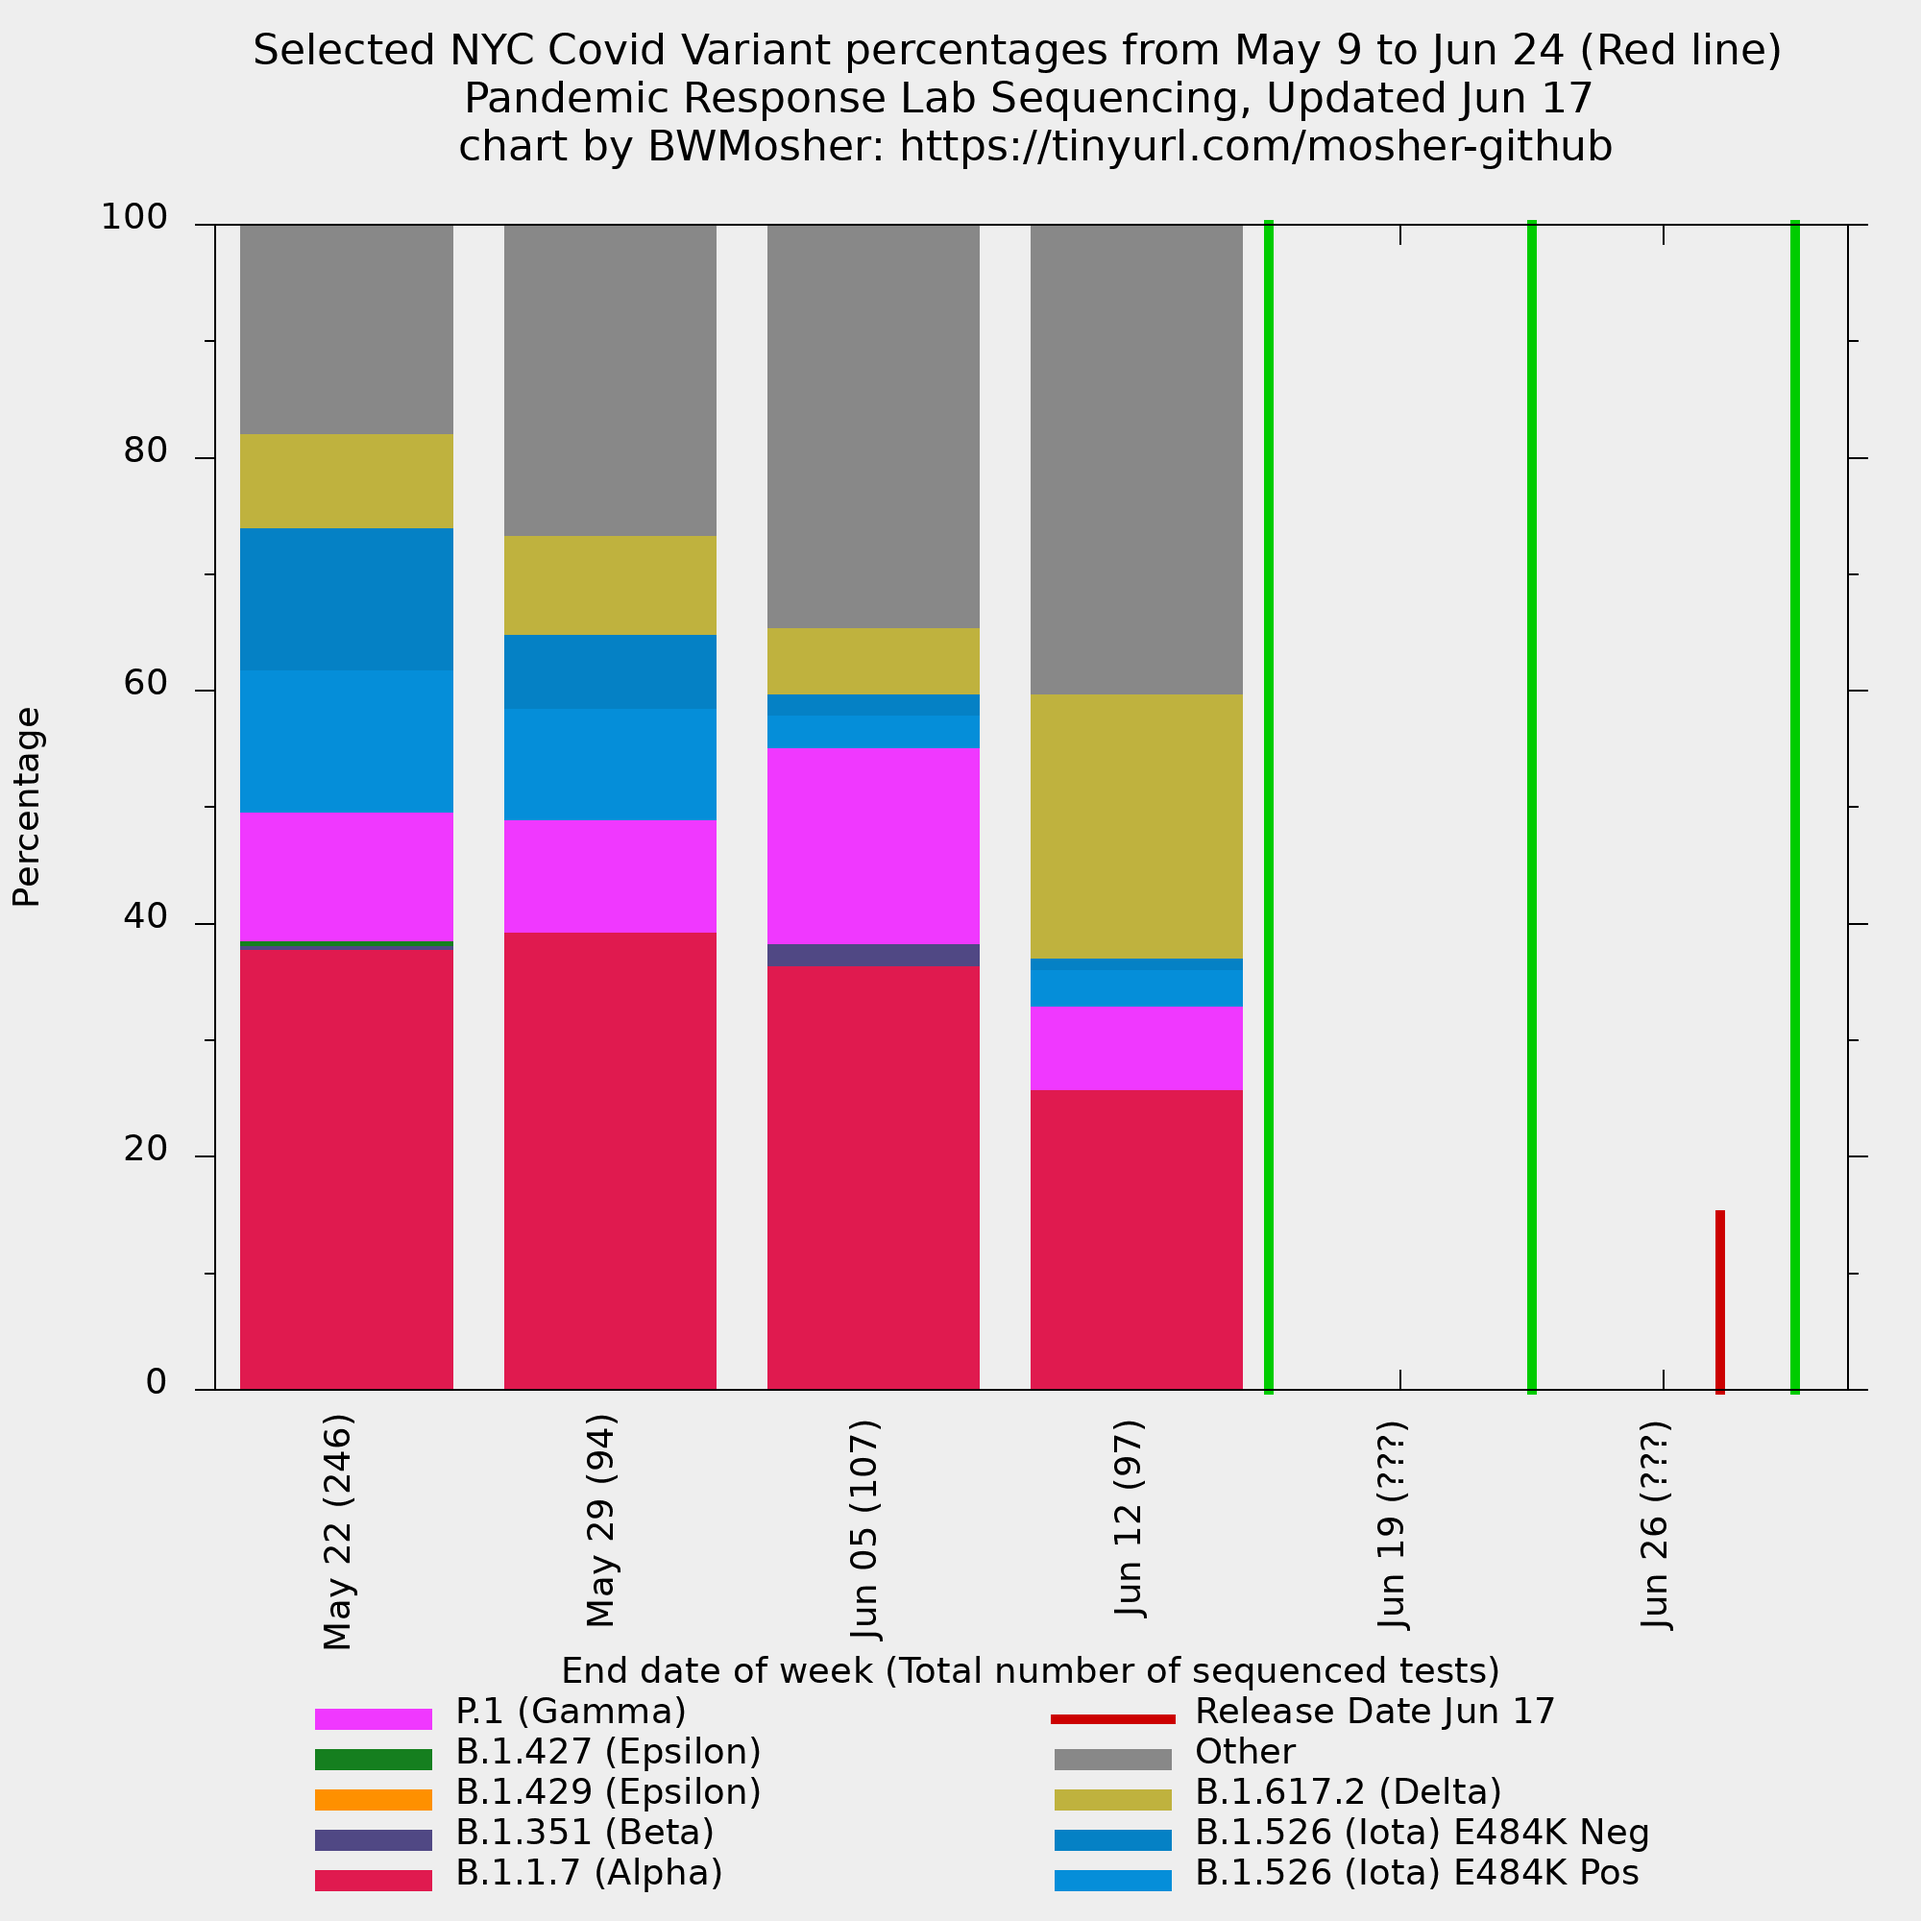
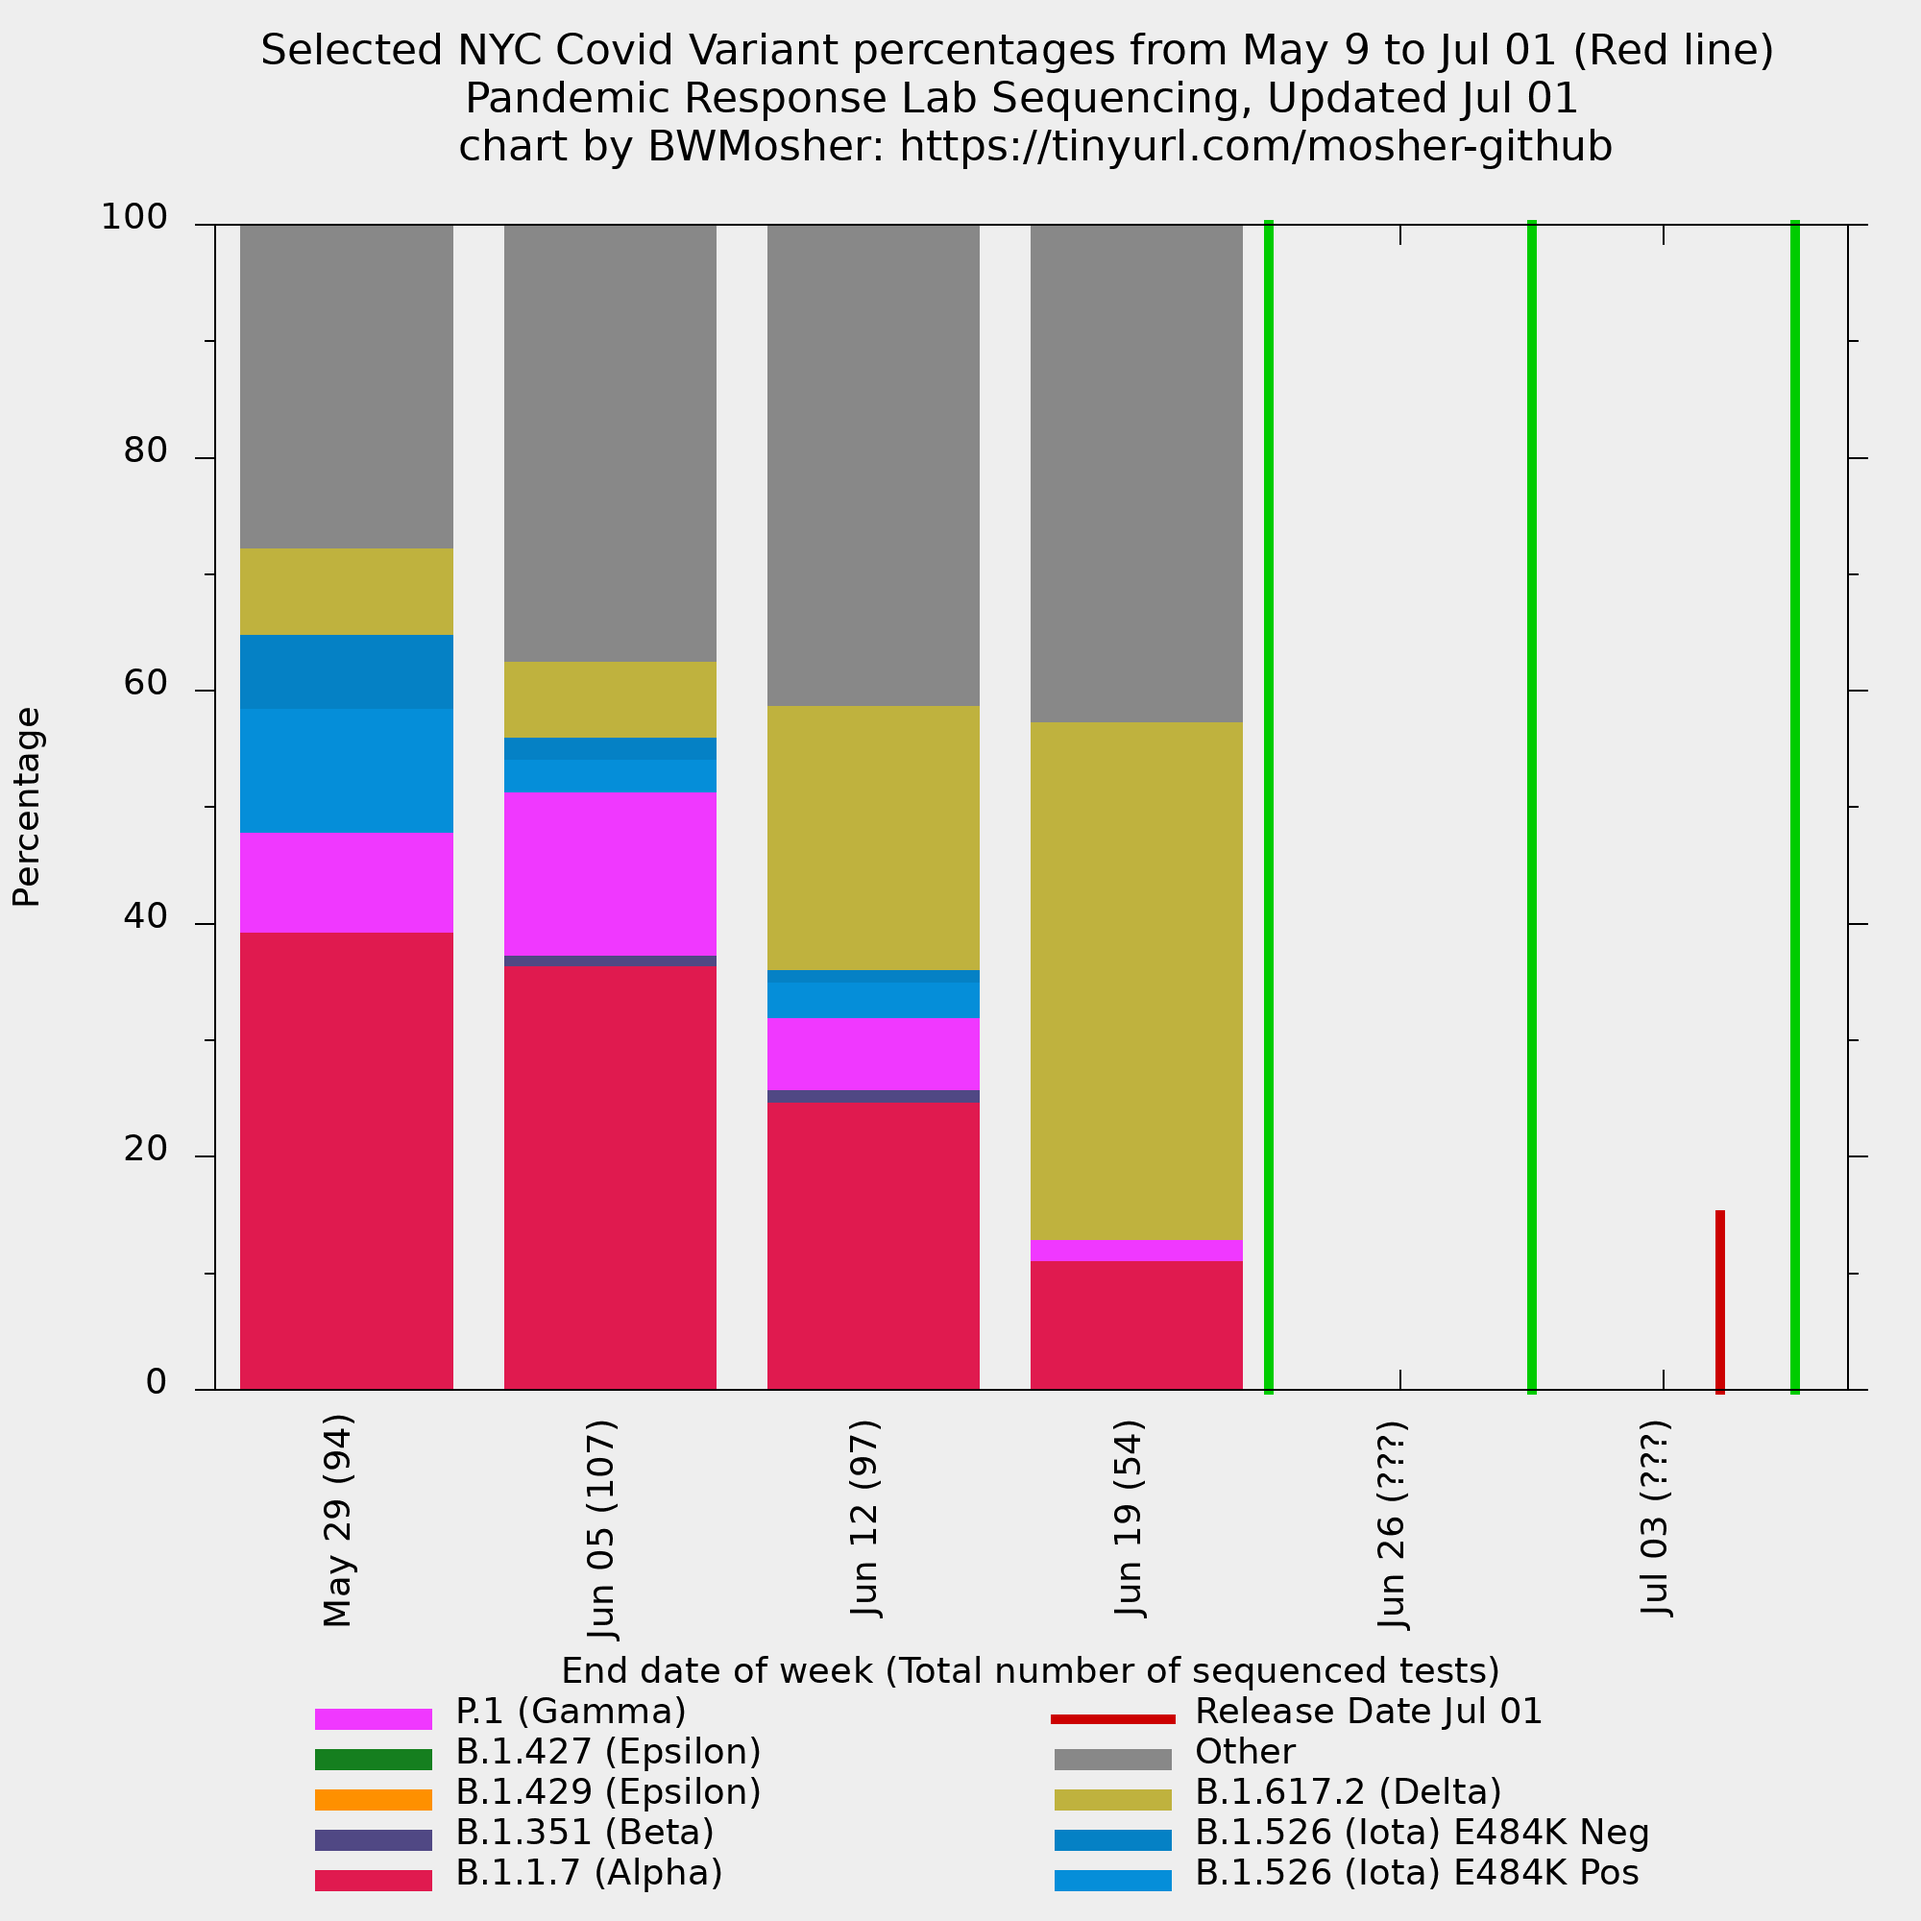
updated visualizations for jul 01 and added notes about spoofs being stale until I update them later

diff --git a/variants/visualization/spoofs/README.md b/variants/visualization/spoofs/README.md
@@ -1,11 +1,13 @@
 # What's going on here?
 
+## note, this hasn't been updated since 2021-06-24
+
 - The city has a visualization of the data at [this website](https://www1.nyc.gov/site/doh/covid/covid-19-data-variants.page). It averages the  *last 4 weeks together*.
 - I think this is a bad idea so I have remade the graphic. You can choose the window that the graphic averages over.
 - These graphics are screenshots of a spreadsheet linked [here](https://tinyurl.com/choose-your-window). Change the linked cell *after making a copy because you don't have edit access* to change the averaging window of the graphic.
 - I'm not sure how to make the creation of these graphics live in GitHub instead of in a spreadsheet but this works for now and it matches the data. I included an extra digit of precision and you can see that this number rounds to the city number when the four-week window is active.
 
-## Images
+## Images (note: old)
 
 ## An average of the last 4 weeks
 ![last-4-weeks.png](last-4-weeks.png)

diff --git a/variants/visualization/README.md b/variants/visualization/README.md
@@ -19,9 +19,9 @@
   city display would look like if it were using a one week window instead of
   a four week window.
 
-## Images
+## Images (updated 2021-07-01)
 
-### The all strains graph from January 2nd to June 24th
+### The all strains graph from January 2nd to Today
 
 `all-weeks-plotted.png`
 
@@ -33,11 +33,11 @@
 
 ![four-weeks-plotted.png](four-weeks-plotted.png)
 
-### The selected variants from only the last week
+<!-- ### The selected variants from only the last week -->
 
-`last-1-week.png`
+<!-- `last-1-week.png` -->
 
-![spoofs/last-1-week.png](spoofs/last-1-week.png)
+<!-- ![spoofs/last-1-week.png](spoofs/last-1-week.png) -->
 
 ### The strains excluded from the data from June 10th (that we were previously monitoring)
 
